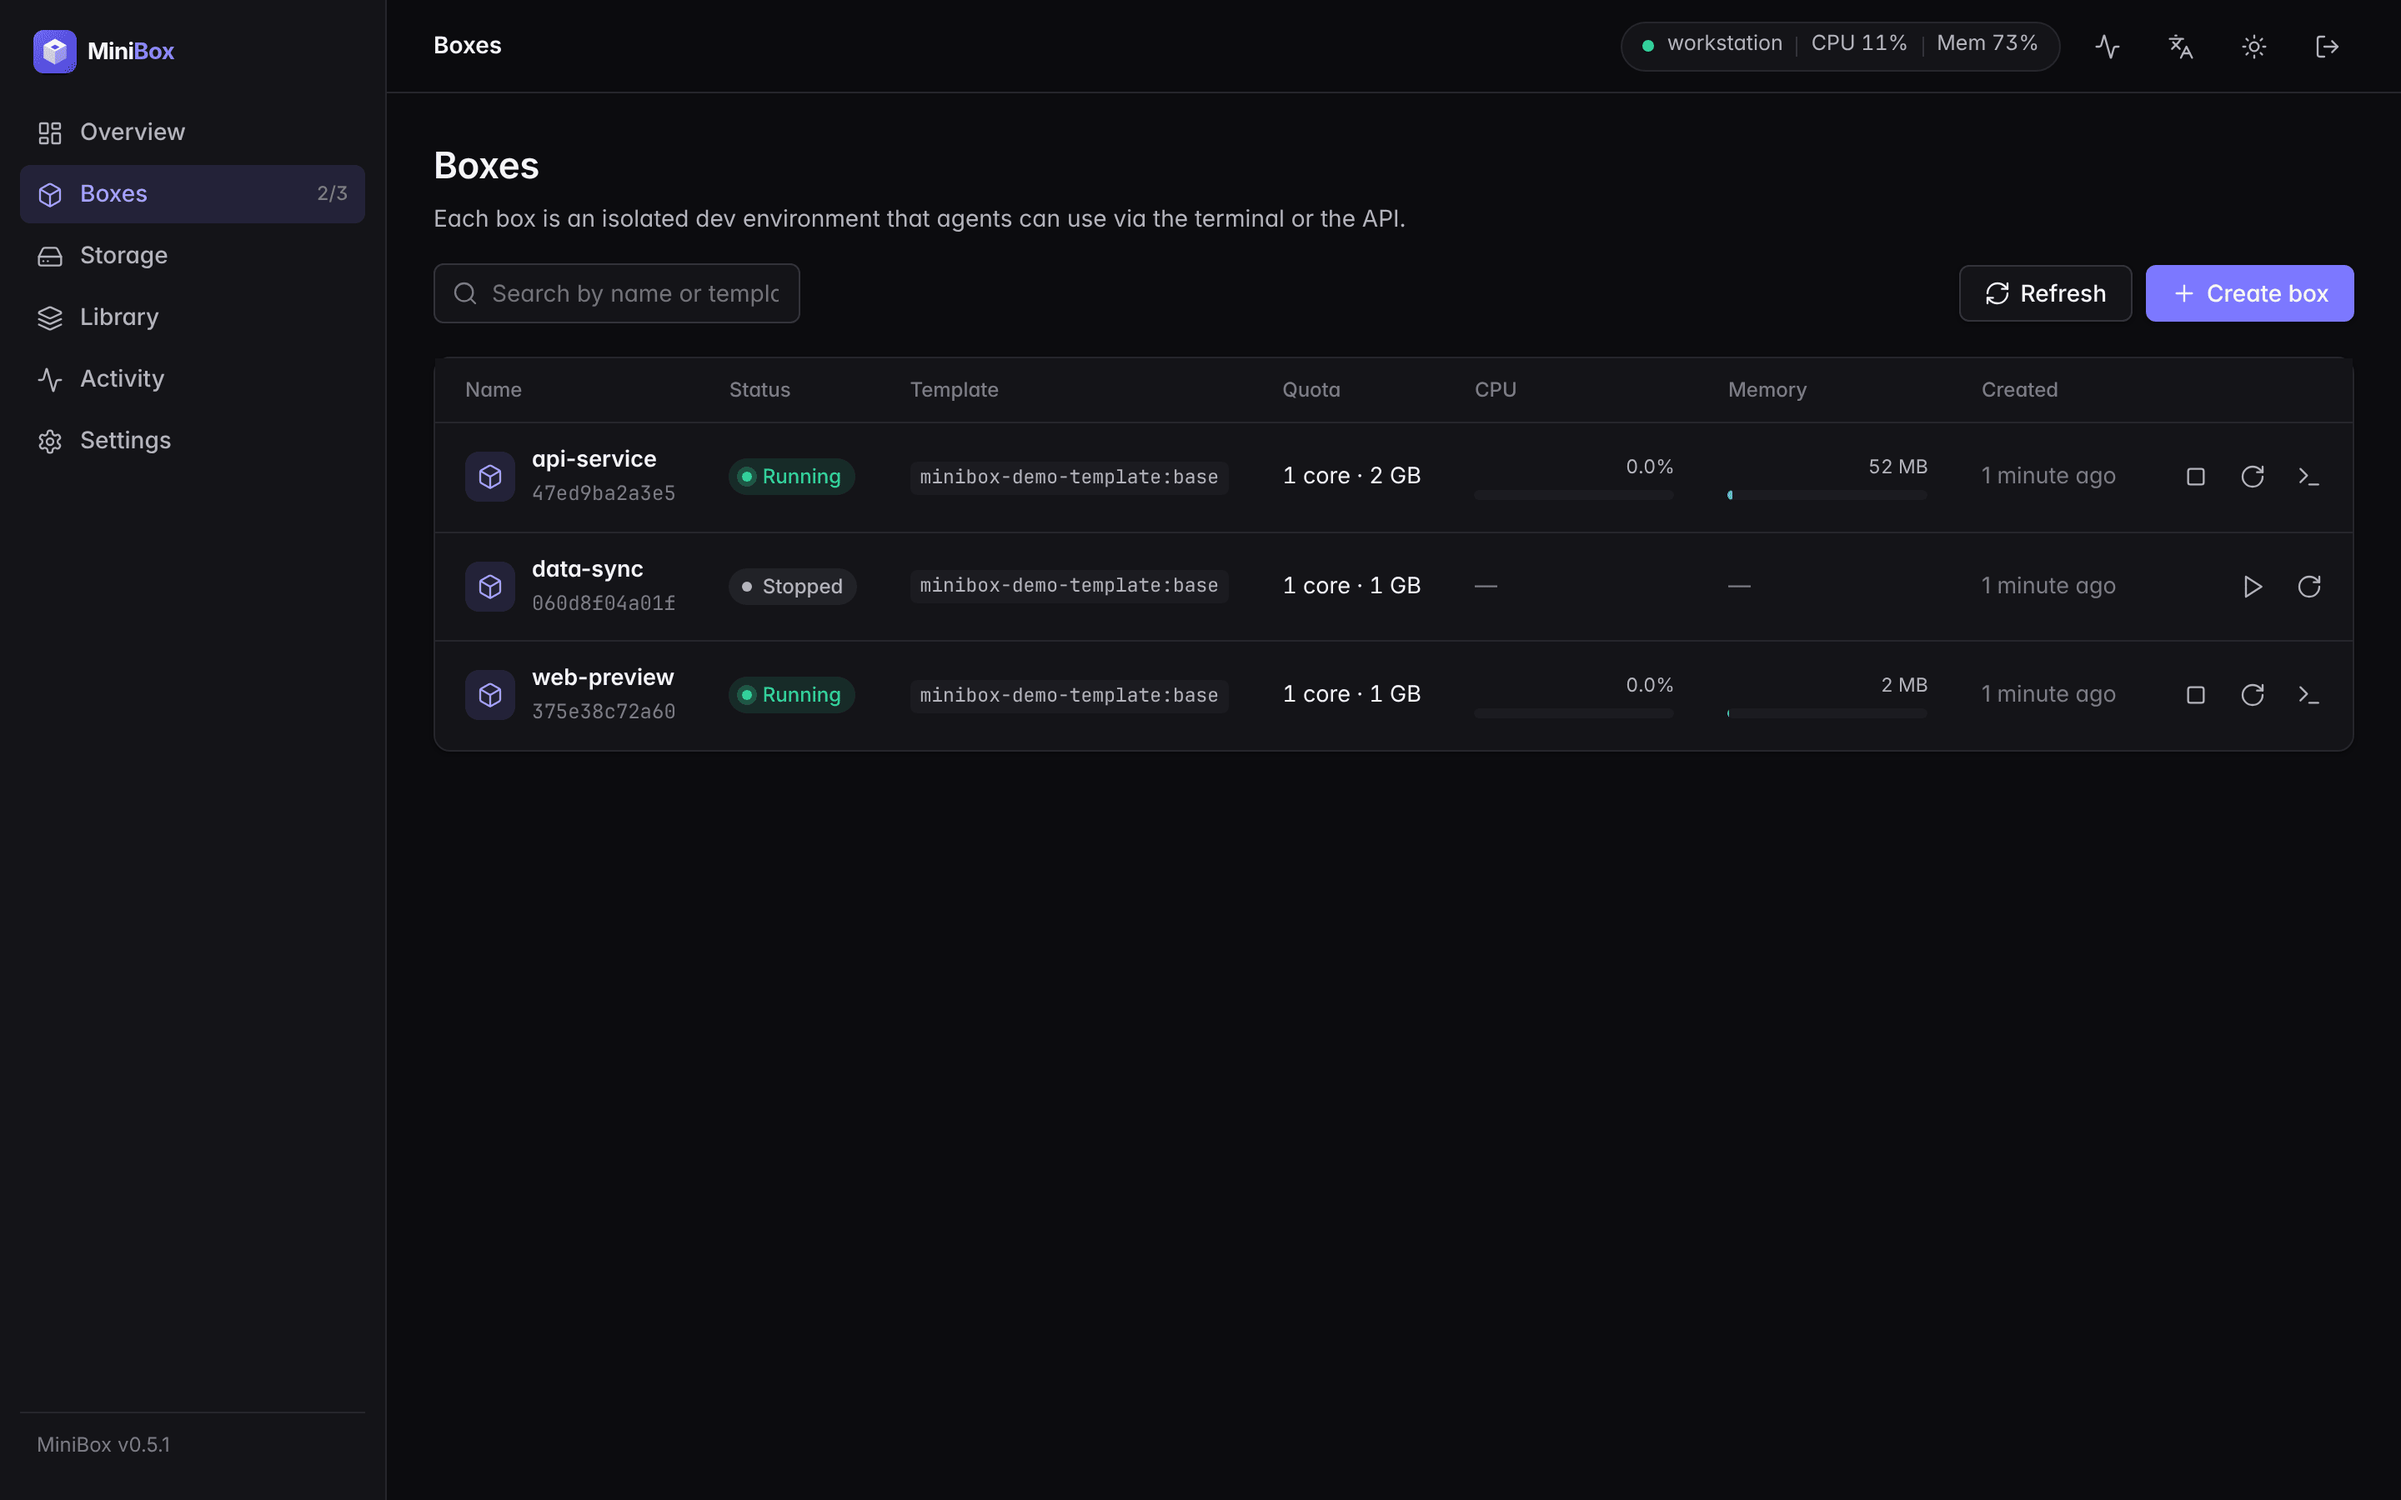
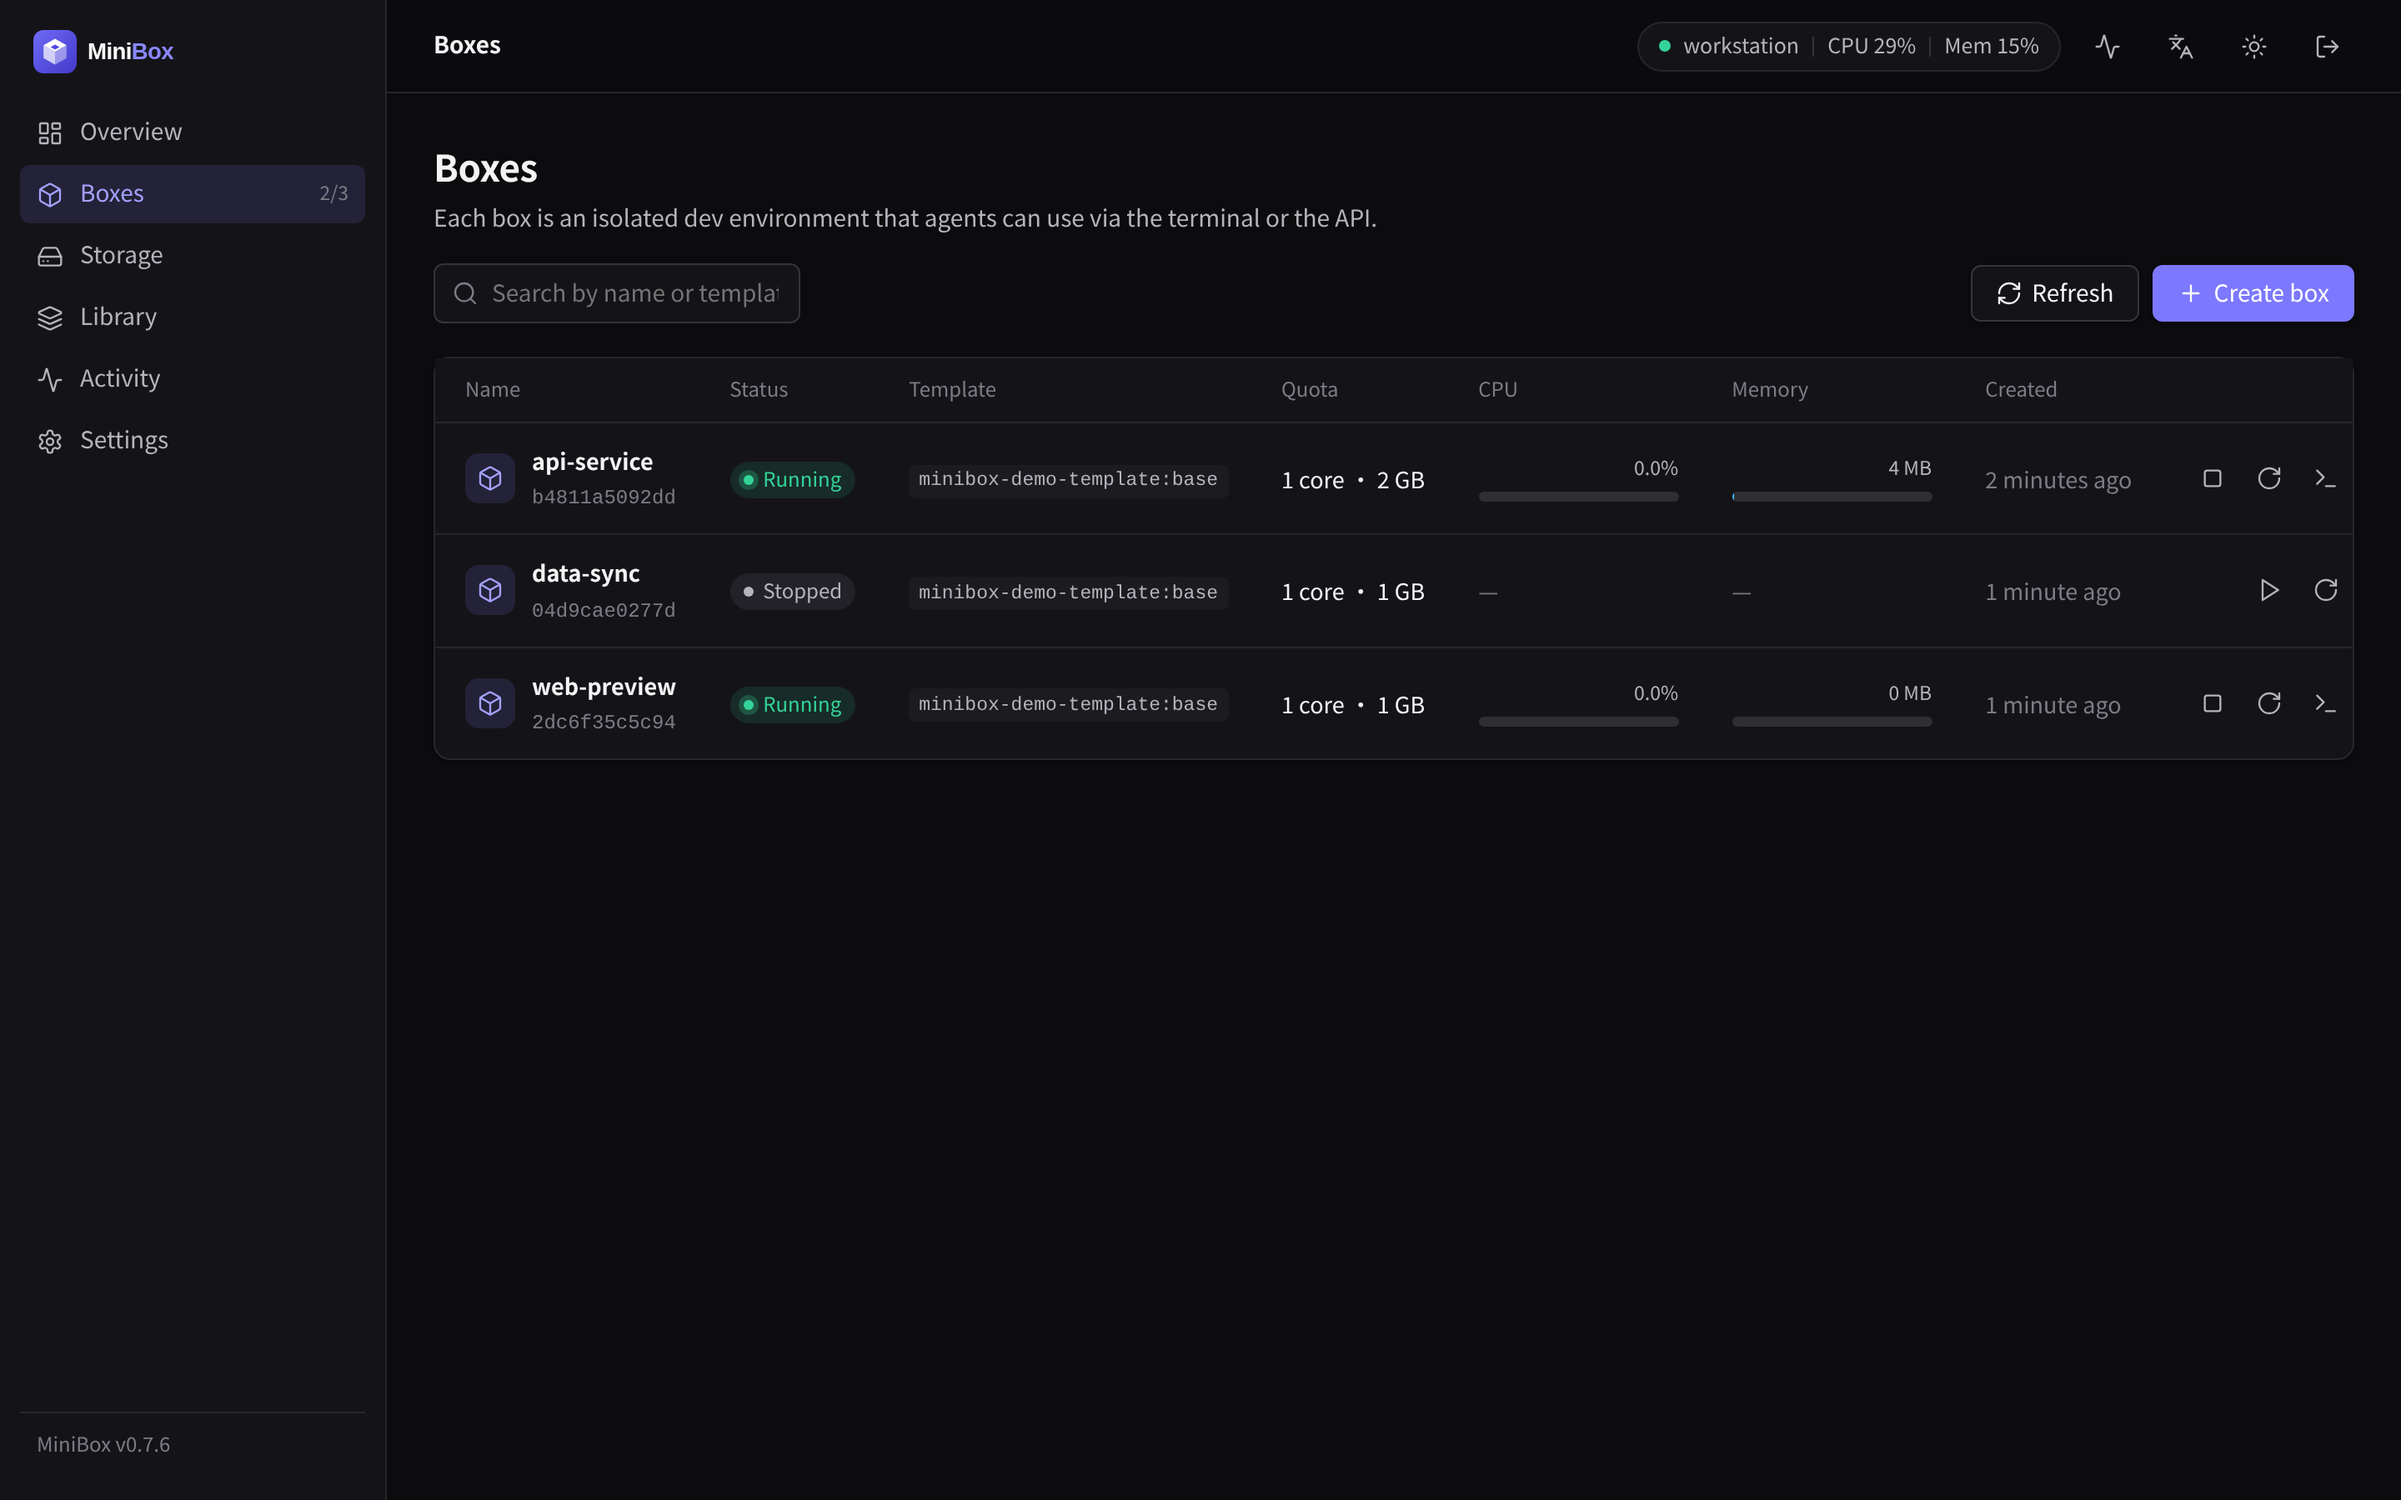
chore(release): prepare 0.7.6 and refresh console screenshots

diff --git a/tests/notify-channels.test.ts b/tests/notify-channels.test.ts
@@ -35,7 +35,7 @@ const hostDown: Notice = { kind: "host.offline", title: "Host h1 is offline", ho
 
 const envelope: Envelope = {
   id: "01JDELIVERY0000000000000A",
-  version: "0.7.5",
+  version: "0.7.6",
   timestamp: 1_790_000_000,
   telegramBase: "https://api.telegram.org",
 };
@@ -74,7 +74,7 @@ describe("webhook requests", () => {
     });
     expect(request.headers).toMatchObject({
       "content-type": "application/json",
-      "user-agent": "MiniBox/0.7.5",
+      "user-agent": "MiniBox/0.7.6",
       "x-minibox-event": "box.oom",
       "x-minibox-delivery": "01JDELIVERY0000000000000A",
       "x-minibox-timestamp": "1790000000",

diff --git a/tests/notify-service.test.ts b/tests/notify-service.test.ts
@@ -71,7 +71,7 @@ function setup(overrides: Partial<NotificationsOptions> = {}, outcomes: (number 
   const clock = { now: NOW };
   const notify = new Notifications({
     store,
-    version: "0.7.5",
+    version: "0.7.6",
     allowPrivate: false,
     record: (note) => notes.push(note),
     transport: async (request) => {

diff --git a/CHANGELOG.md b/CHANGELOG.md
@@ -4,10 +4,12 @@
 
 ## [Unreleased]
 
+## [0.7.6] - 2026-11-12
+
 ### 修复
 
-- **终端复制和粘贴**：新增复制、粘贴按钮和右键菜单，支持 Windows/Linux 的 Ctrl+C、Ctrl+Shift+C、Ctrl+V、Ctrl+Shift+V 以及 macOS 的 ⌘C、⌘V；未选中文本时 Ctrl+C 仍用于中断命令。提示使用 Shift（macOS 为 Option）拖选文本，保留 tmux 滚轮历史浏览。普通 HTTP 或剪贴板读取被拒绝时，可通过多行输入框完成粘贴；只读会话仍可复制，切换会话后完成的剪贴板读取不会误输入到新会话。
-- **加快 `/home/dev` 文件浏览**：按实际浏览深度判断嵌套挂载，避免默认的 `/home/dev/.cache` 挂载让整个 home 卷退回慢速列表。单层目录复用运行中的 Box，并用不启动的隔离容器核对被遮盖目录的元数据；该容器使用按需本地构建、重复复用的空镜像，避免 `vfs` 驱动复制完整基础镜像的开销。仍保留卷隔离、符号链接越界保护和受遮盖子目录的隔离读取。
+- **终端复制和粘贴**（[#341](https://github.com/ArnoChenFx/minibox/pull/341)）：新增复制、粘贴按钮和右键菜单，支持 Windows/Linux 的 Ctrl+C、Ctrl+Shift+C、Ctrl+V、Ctrl+Shift+V 以及 macOS 的 ⌘C、⌘V；未选中文本时 Ctrl+C 仍用于中断命令。提示使用 Shift（macOS 为 Option）拖选文本，保留 tmux 滚轮历史浏览。普通 HTTP 或剪贴板读取被拒绝时，可通过多行输入框完成粘贴；只读会话仍可复制，切换会话后完成的剪贴板读取不会误输入到新会话。
+- **加快 `/home/dev` 文件浏览**（[#342](https://github.com/ArnoChenFx/minibox/pull/342)）：按实际浏览深度判断嵌套挂载，避免默认的 `/home/dev/.cache` 挂载让整个 home 卷退回慢速列表。单层目录复用运行中的 Box，并用不启动的隔离容器核对被遮盖目录的元数据；该容器使用按需本地构建、重复复用的空镜像，避免 `vfs` 驱动复制完整基础镜像的开销。仍保留卷隔离、符号链接越界保护和受遮盖子目录的隔离读取。
 
 ## [0.7.5] - 2026-11-11
 

diff --git a/docs/admin/install.md b/docs/admin/install.md
@@ -65,7 +65,7 @@ Use at least 20 random characters. See [Security](security.md).
 ### Image tags
 
 - `X.Y.Z`, `X.Y` and `latest` point to releases. Pre-releases such as `1.0.0-rc.1` get only their exact tag.
-- To pin a version, use its full tag, such as `ghcr.io/arnochenfx/minibox:0.7.5`.
+- To pin a version, use its full tag, such as `ghcr.io/arnochenfx/minibox:0.7.6`.
 
 ### The base template
 
@@ -76,7 +76,7 @@ The release image does not include the base template. MiniBox builds it on a hos
 From a checkout of the repository:
 
 ```bash
-docker build --build-arg MINIBOX_VERSION=0.7.5 -t minibox .
+docker build --build-arg MINIBOX_VERSION=0.7.6 -t minibox .
 ```
 
 Use the `minibox` image in the `docker run` command above in place of the release image.

diff --git a/docs/admin/upgrades.md b/docs/admin/upgrades.md
@@ -83,7 +83,7 @@ These are the manual steps for changes made in 0.4 and later. Read the ones that
    docker pull ghcr.io/arnochenfx/minibox:latest
    ```
 
-   To pin a version, use its tag, such as `ghcr.io/arnochenfx/minibox:0.7.5`.
+   To pin a version, use its tag, such as `ghcr.io/arnochenfx/minibox:0.7.6`.
 
 2. If you set `ACCESS_KEY` only in the container environment and not in the `minibox-data` volume, copy it before you remove the container. When the key lives in the volume, skip this step:
 
